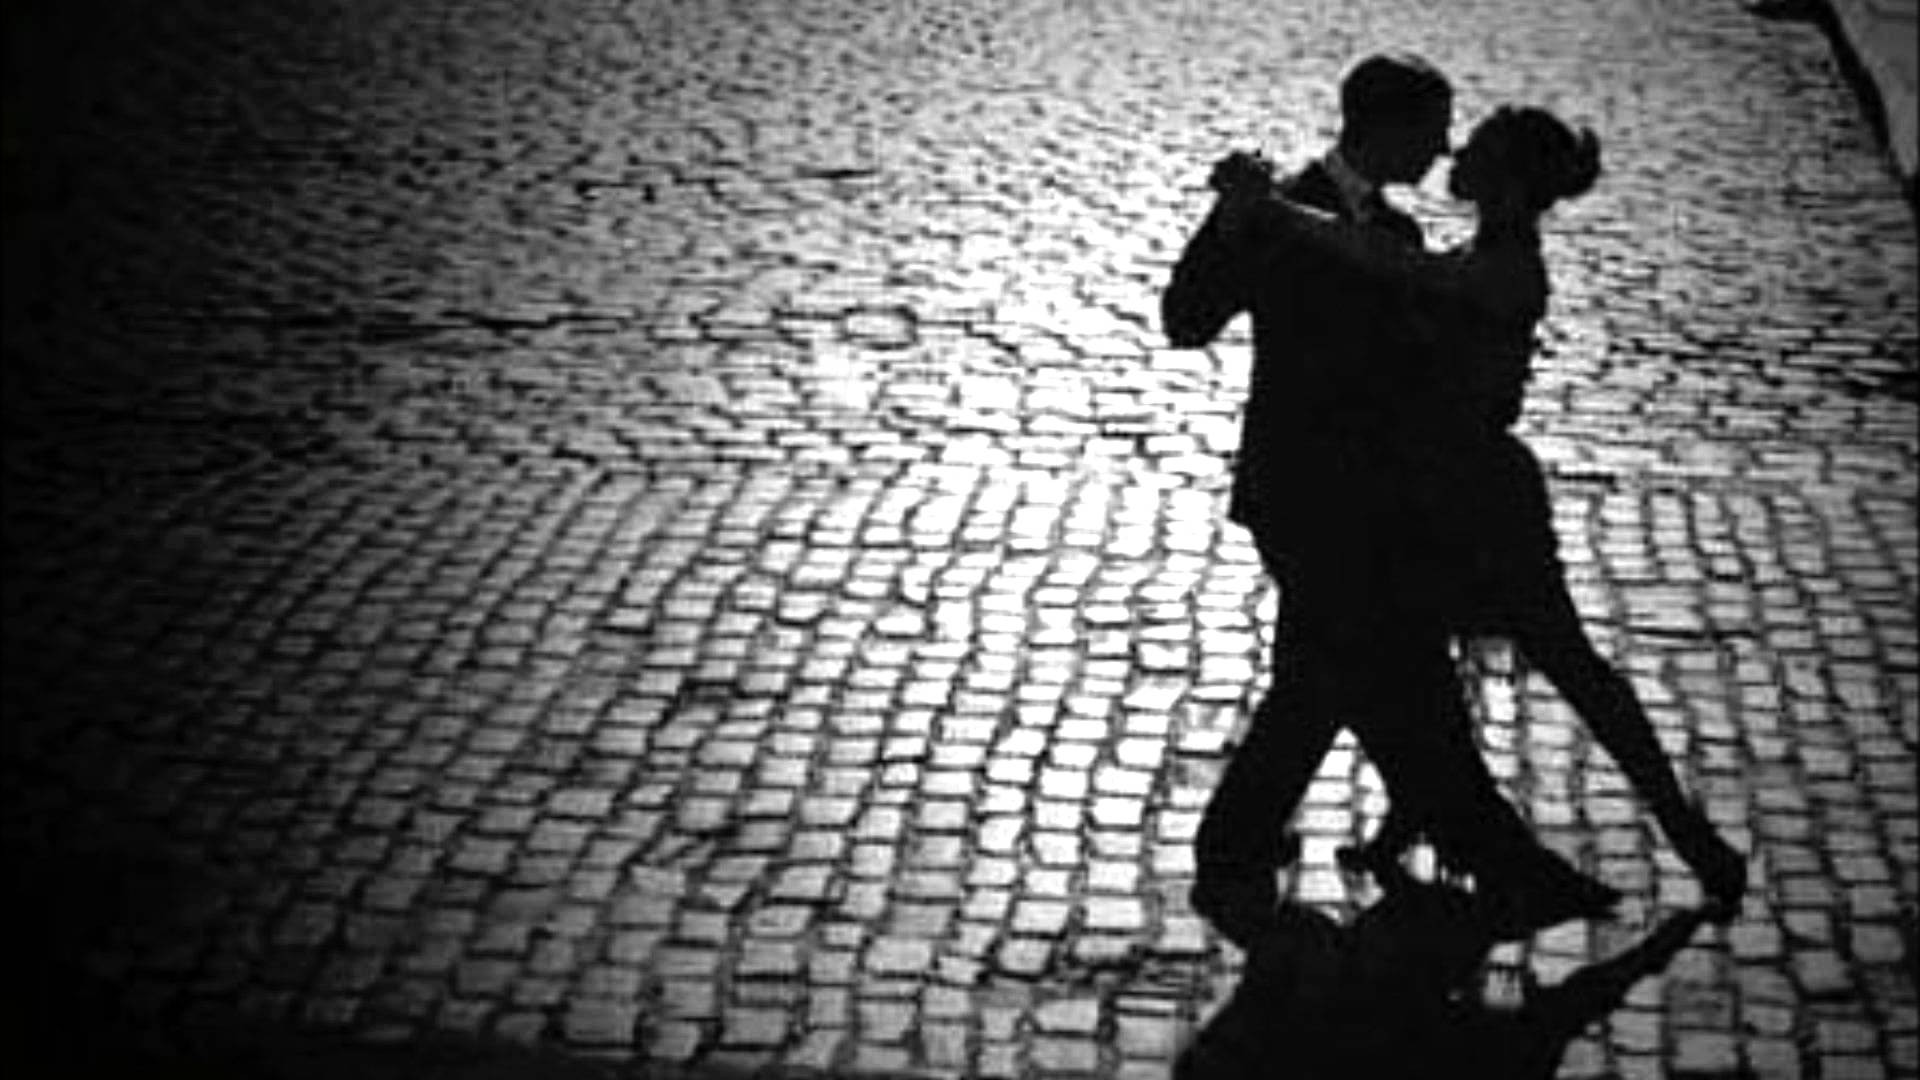
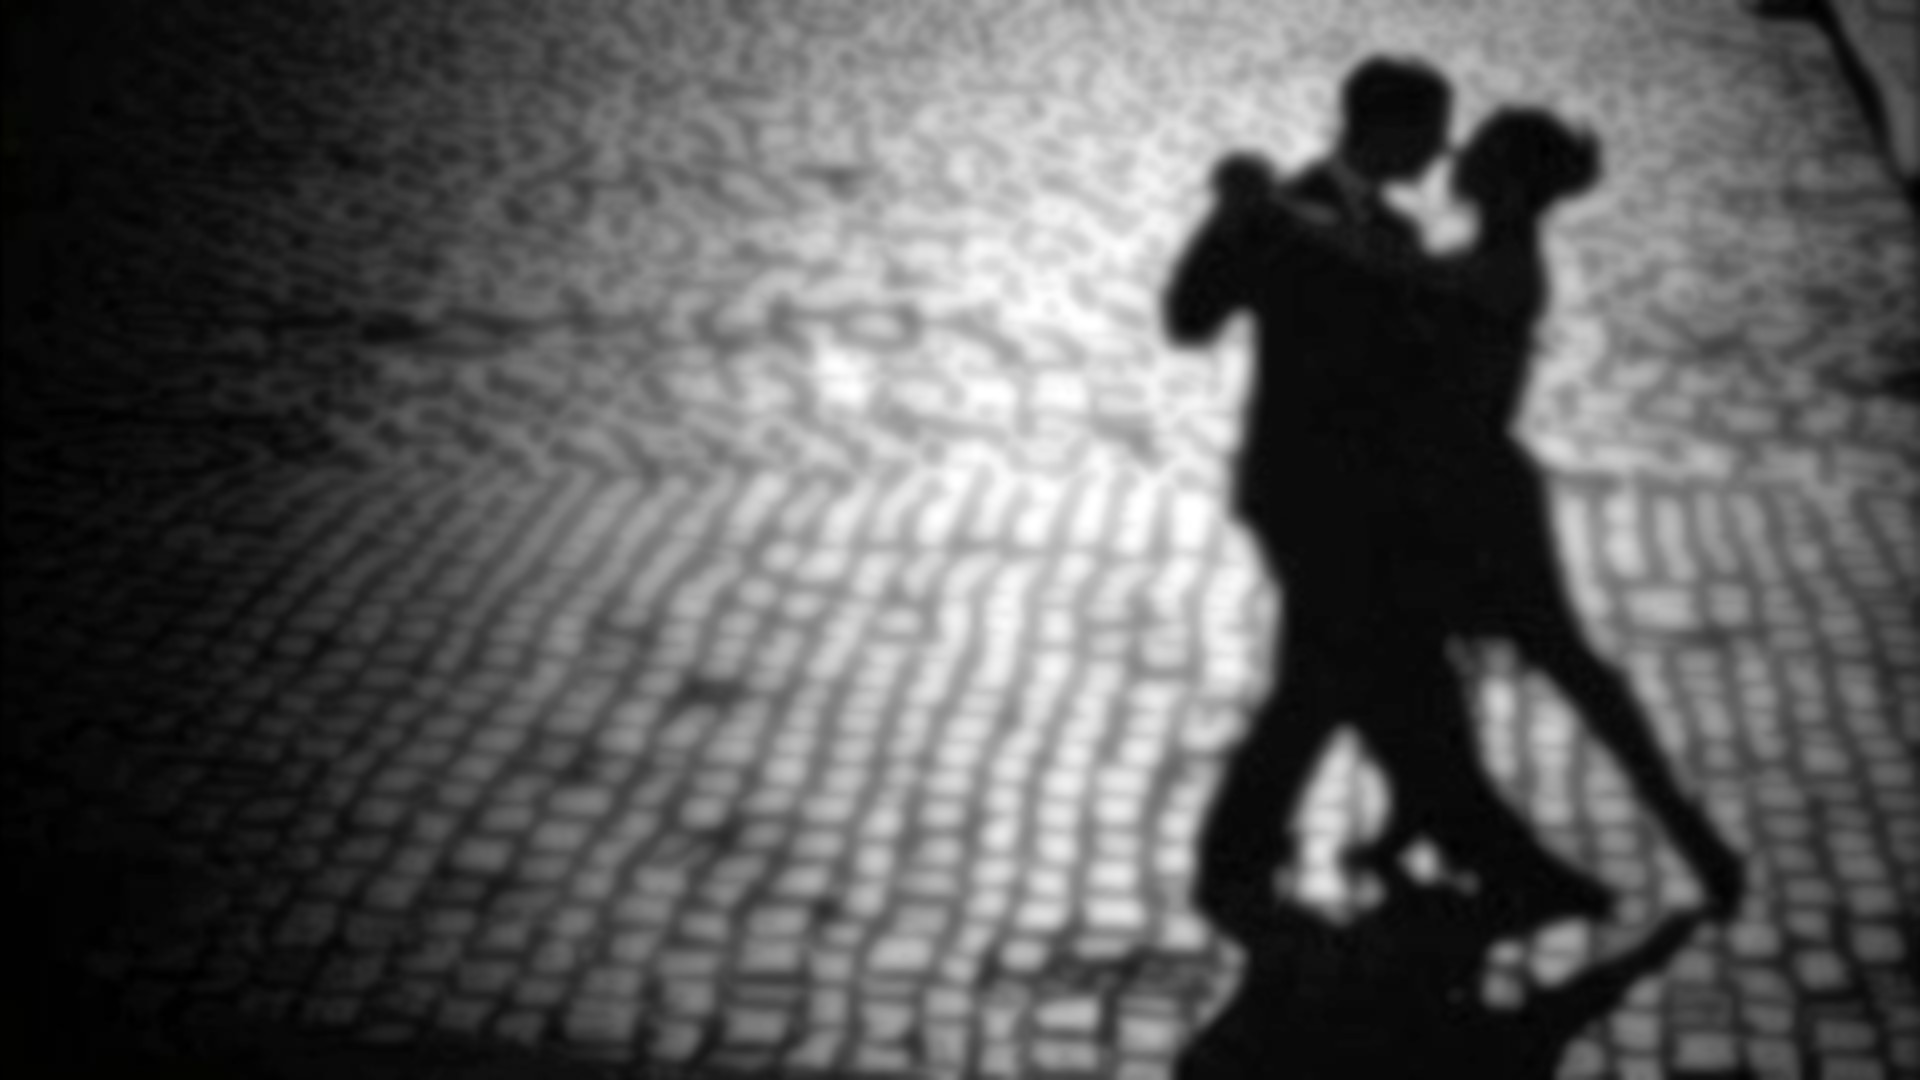
fb added. bg-image blurred

Changed region(s): [[0.1875, 0.0, 1.0, 1.0], [0.1875, 0.4583, 0.2188, 0.4889]]

diff --git a/tango/index.html b/tango/index.html
@@ -47,25 +47,25 @@
       </div>
     </div>
 
-    <!-- <div class="social-icons">
+    <div class="social-icons">
       <ul class="list-unstyled text-center mb-0">
         <li class="list-unstyled-item">
-          <a href="#">
-            <i class="fa fa-twitter"></i>
-          </a>
-        </li>
-        <li class="list-unstyled-item">
-          <a href="#">
+          <a href="https://www.facebook.com/KinesioGym">
             <i class="fa fa-facebook"></i>
           </a>
+        </li>
+        <!-- <li class="list-unstyled-item">
+            <a href="#">
+                <i class="fa fa-twitter"></i>
+            </a>
         </li>
         <li class="list-unstyled-item">
           <a href="#">
             <i class="fa fa-instagram"></i>
           </a>
-        </li>
+        </li> -->
       </ul>
-    </div> -->
+    </div>
 
     <!-- Bootstrap core JavaScript -->
     <script src="vendor/jquery/jquery.min.js"></script>
